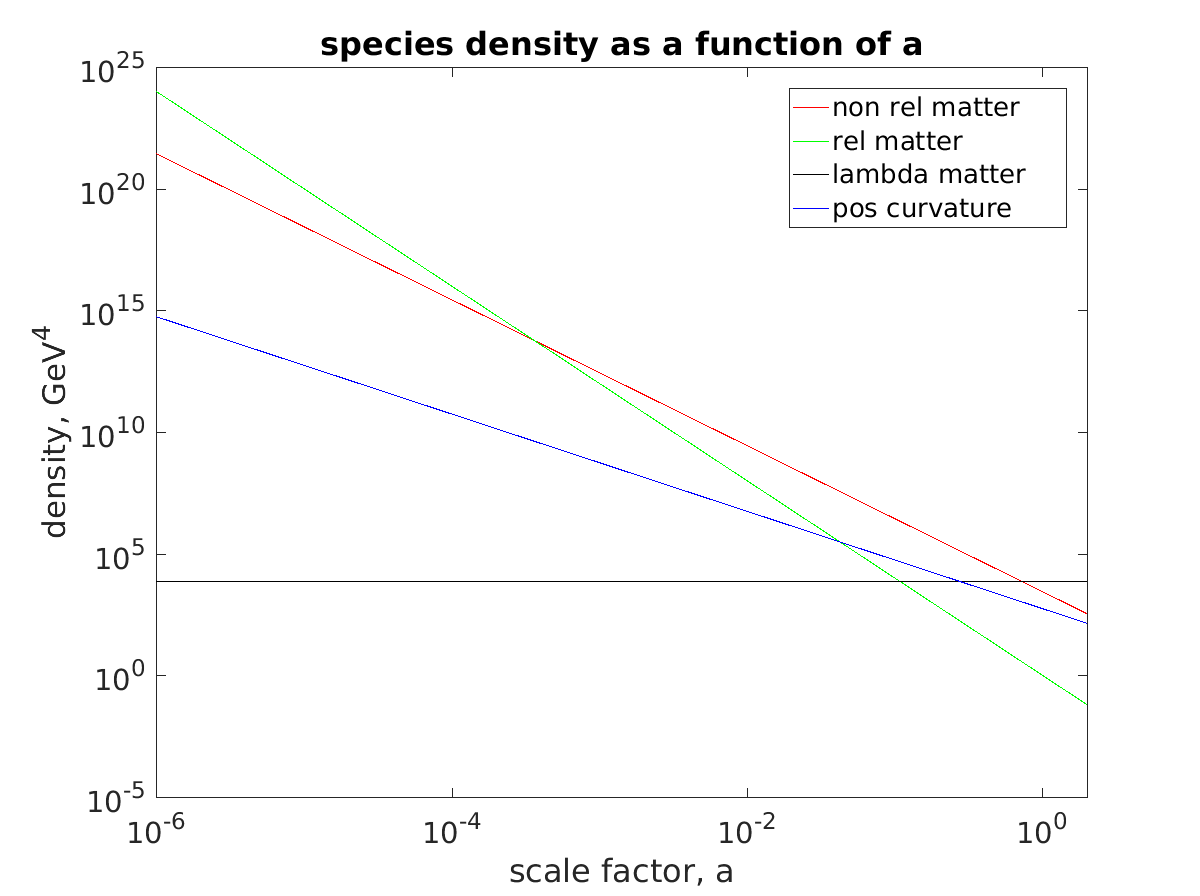
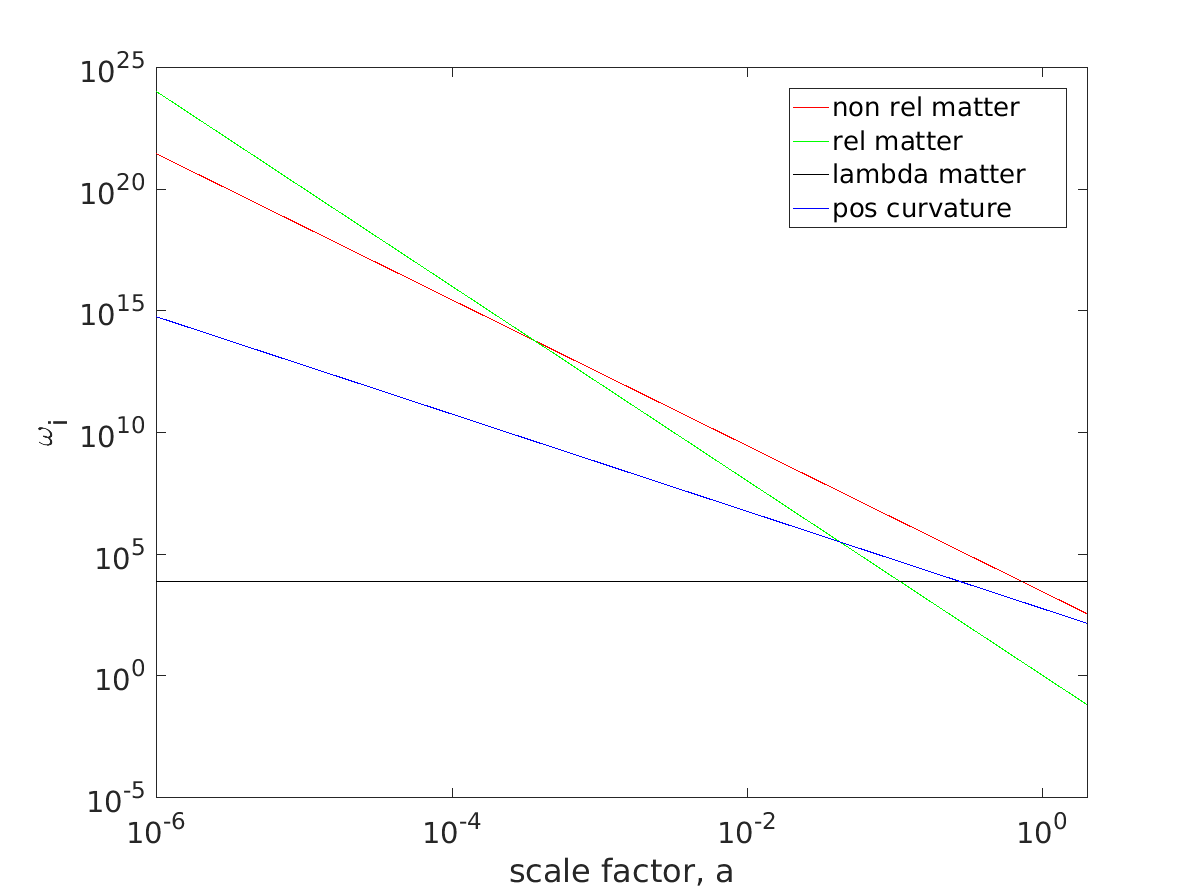
changed yabesl and removed titles

Changed region(s): [[0.2467, 0.0312, 0.7708, 0.0625], [0.0308, 0.375, 0.0617, 0.5938]]

diff --git a/HW3/hw3.m b/HW3/hw3.m
@@ -22,8 +22,7 @@ set(gca, 'fontsize',14);
 hold off
 
 xlabel('scale factor, a')
-ylabel('density, GeV^4')
-title('species density as a function of a')
+ylabel('\omega_{i}')
 legend('non rel matter','rel matter','lambda matter', 'neg curvature')
 saveas(f,'rho_k_neg.png')
 
@@ -38,8 +37,7 @@ set(gca, 'fontsize',14);
 hold off
 
 xlabel('scale factor, a')
-ylabel('density, GeV^4')
-title('species density as a function of a')
+ylabel('\omega_{i}')
 legend('non rel matter','rel matter','lambda matter', 'pos curvature')
 saveas(f,'rho_k_pos.png')
 
